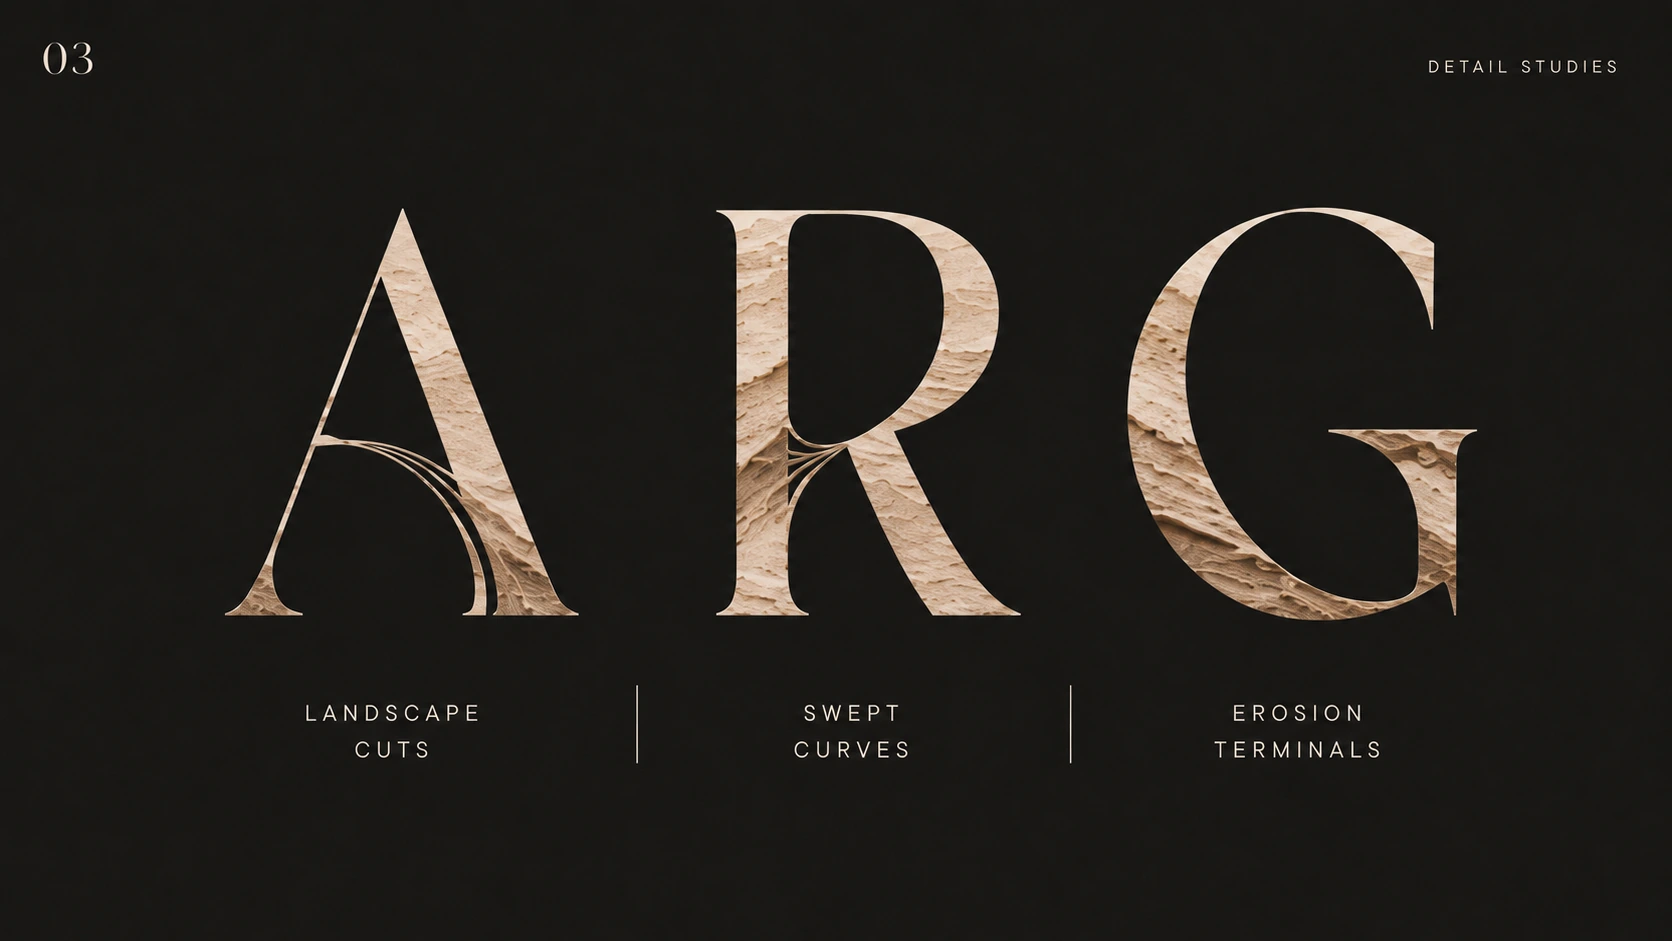
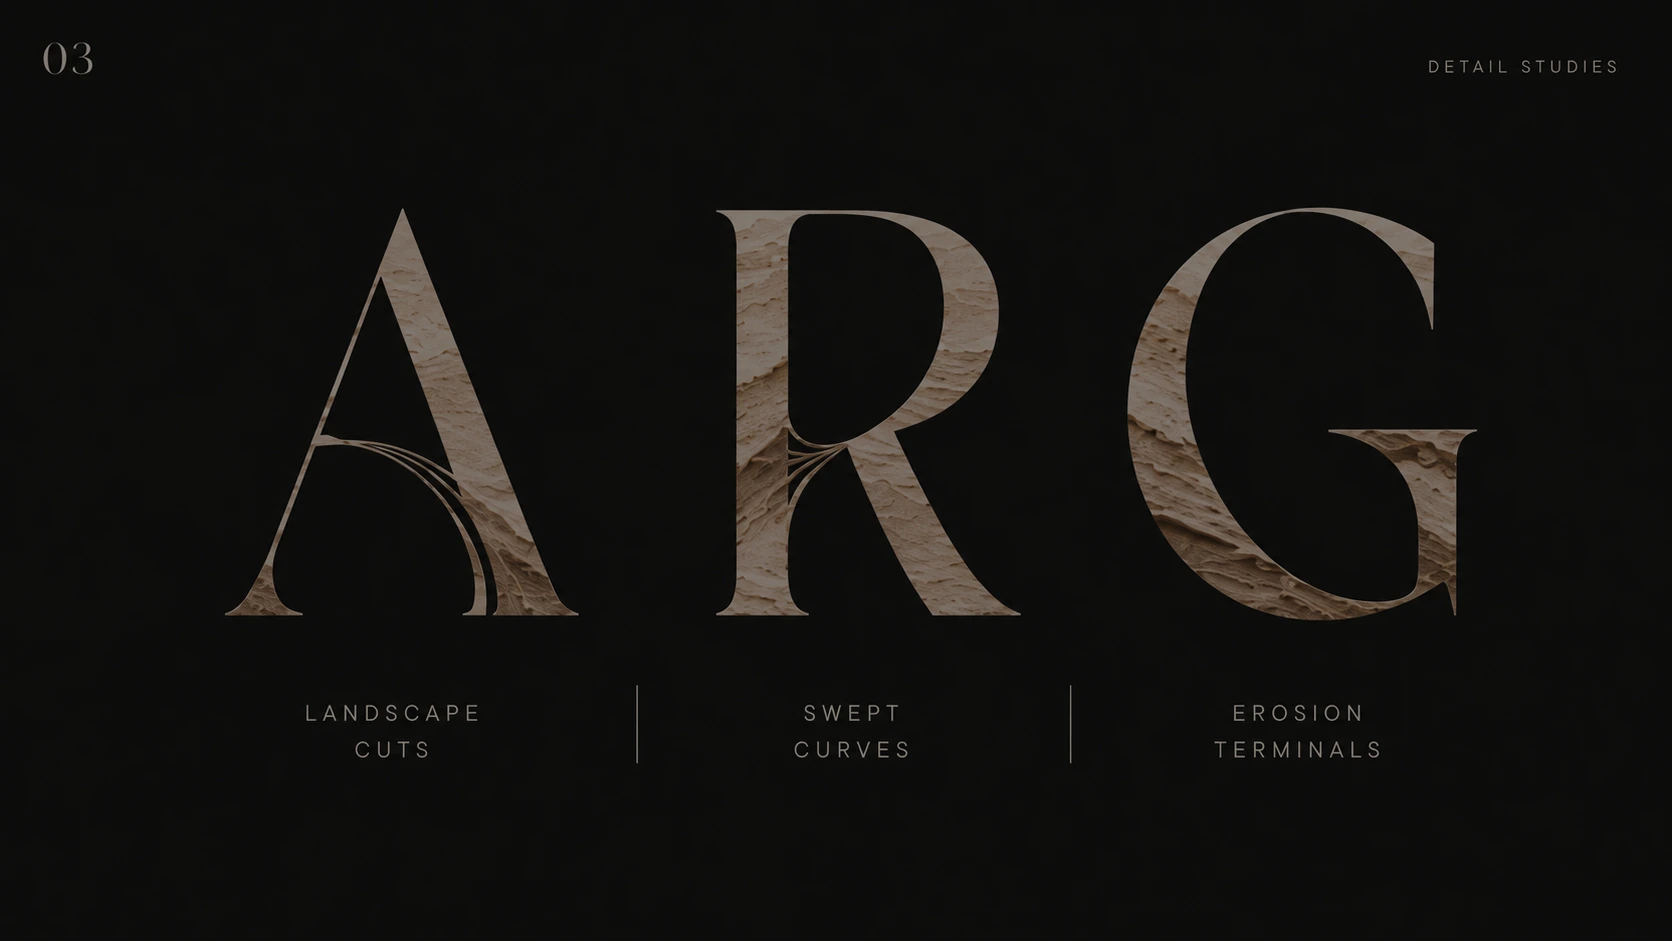
fix(textures): per-section dark/light mapping per user verdict + clamp luma to stop letter dropouts
Two changes folded into one pass:

1. ALPHA / LUMA CLAMP — the previous typo textures had luma swings wide
   enough that any glyph happening to land on a near-bg-luma patch
   vanished into the surface. The user reported this as "על האזירוע א"
   (whole letters chewed out of the testimonials title) and "כשרוח
   ורבגוח" (kosher title with the same dropout). Re-encoded both
   textures with sharp.linear():
     typo-on-light: pixel * 0.55 + 0   → luma range 11–112 (always
       clearly darker than ivory's 245)
     typo-on-dark:  pixel * 0.45 + 140 → luma range 153–246 (always
       clearly lighter than cocoa's ~53)
   Plus background-size flipped from `auto 280%` to `100% 100%` so each
   glyph samples the entire texture, never a tiny crop.

2. PER-SECTION MAPPING — applied the user's verdict:
     #21 hall-venue h2 + features:  → DARK   (was light, vanished on ivory)
     #22 culinary title:            → LIGHT  (already correct, confirmed)
     #23 marquee band:              → LIGHT  (was solid brass, now textured)
     #24 testimonials title:         the alpha-clamp from item 1 fixes it
     #25 gallery title:             → LIGHT  (per user direction)
     #26 kosher title:              → LIGHT  (already correct), eyebrow stays solid
   Eyebrows are now NEVER textured; per impeccable's "texture only earns
   its place at display sizes", small eyebrow text reads better as solid
   brass than as a chewed texture.

diff --git a/css/components/texture-text.css b/css/components/texture-text.css
@@ -35,17 +35,17 @@
 @supports ((-webkit-background-clip: text) or (background-clip: text)) {
 
   /* ---- Shared paint base ----
-     2026-06-03: switched background-size from `cover` (which fit the entire
-     texture inside the heading box and made each glyph show only a tiny
-     speck of texture) to a value that scales the texture much larger than
-     the heading. Each glyph now reveals a generous slice of the gold flecks.
-     `auto 280%` keeps the texture's aspect ratio and ties height to the
-     element's block-size — about 2.8× the line-height. */
+     2026-06-03: background-size changed to `100% 100%`. The previous
+     `auto 280%` over-zoomed the texture: each glyph saw only a tiny crop,
+     and if that crop happened to land in a near-bg-luma patch the letter
+     vanished. Forcing the texture to fill the heading box exactly means
+     every glyph samples the entire texture; combined with luma-clamped
+     textures (typo-on-light ≤ 112, typo-on-dark ≥ 153), no letter ever
+     blends into ivory or cocoa. */
   .texture-text,
   .texture-text--dark,
   .texture-text--light,
   .section-header__title,
-  .section-header__eyebrow,
   .lounge__title,
   .rooms__name,
   .hall-venue h1,
@@ -54,7 +54,7 @@
   .hall-resort h2,
   .feature h3 {
     background-repeat: no-repeat;
-    background-size: auto 280%;
+    background-size: 100% 100%;
     background-position: center;
     -webkit-background-clip: text;
     background-clip: text;
@@ -63,11 +63,11 @@
   }
 
   /* ---- Default: DARK texture (gold flecks on near-black) for headings on
-     light/ivory surfaces — the dominant case across the site. ---- */
+     light/ivory surfaces — the dominant case across the site. Hall venue
+     and hall resort features sit on ivory too; they share the default. ---- */
   .texture-text,
   .texture-text--dark,
   .section-header__title,
-  .section-header__eyebrow,
   .lounge__title,
   .rooms__name,
   .hall-venue h1,
@@ -78,37 +78,39 @@
     background-image: var(--typo-on-light);
   }
 
-  /* ---- LIGHT texture override for content on dark surfaces ----
-     Sections with a dark background opt in via `data-bg="dark"` / `.bg-dark`,
-     or by being one of the enumerated dark-bg sections below. The light
-     gold-on-cream texture replaces the dark default so headings stand out
-     against cocoa/desert backgrounds.
-     Sections covered: Hero, Hall-venue, Hall-resort, Kosher, Culinary,
-     Footer. */
+  /* ---- LIGHT texture override for content on dark surfaces, plus the
+     marquee band, the gallery title, and the kosher title (which the user
+     explicitly marked as "כתב כהה, טקסטורה בהירה"). Eyebrows are NOT
+     filled with texture by default; they stay solid brass at small sizes
+     (texture only earns its place at display sizes per the impeccable
+     guidance — small text + texture is unreadable). ---- */
   [data-bg="dark"] .section-header__title,
-  [data-bg="dark"] .section-header__eyebrow,
   .bg-dark .section-header__title,
-  .bg-dark .section-header__eyebrow,
   .culinary .section-header__title,
-  .culinary .section-header__eyebrow,
-  .site-footer .section-header__title,
-  .site-footer .section-header__eyebrow,
+  .site-footer .site-footer__claim,
   .hero .section-header__title,
-  .hero .section-header__eyebrow,
-  .hall-venue .section-header__title,
-  .hall-venue .section-header__eyebrow,
-  .hall-venue h1,
-  .hall-venue h2,
-  .hall-venue .feature h3,
-  .hall-resort .section-header__title,
-  .hall-resort .section-header__eyebrow,
-  .hall-resort h1,
-  .hall-resort h2,
-  .hall-resort .feature h3,
+  .gallery .section-header__title,
   .kosher .section-header__title,
-  .kosher .section-header__eyebrow,
+  .marquee__text,
   .texture-text--light {
     background-image: var(--typo-on-dark) !important;
+  }
+
+  /* The light-bg textures need the same paint base as the default group —
+     opt them in here so background-size/clip apply to them too. */
+  .marquee__text,
+  .gallery .section-header__title,
+  .kosher .section-header__title,
+  .culinary .section-header__title,
+  .hero .section-header__title,
+  .site-footer .site-footer__claim {
+    background-repeat: no-repeat;
+    background-size: 100% 100%;
+    background-position: center;
+    -webkit-background-clip: text;
+    background-clip: text;
+    -webkit-text-fill-color: transparent;
+    color: transparent;
   }
 
   /* ---- Per-element overrides: legacy `.texture-text--dark/--light`